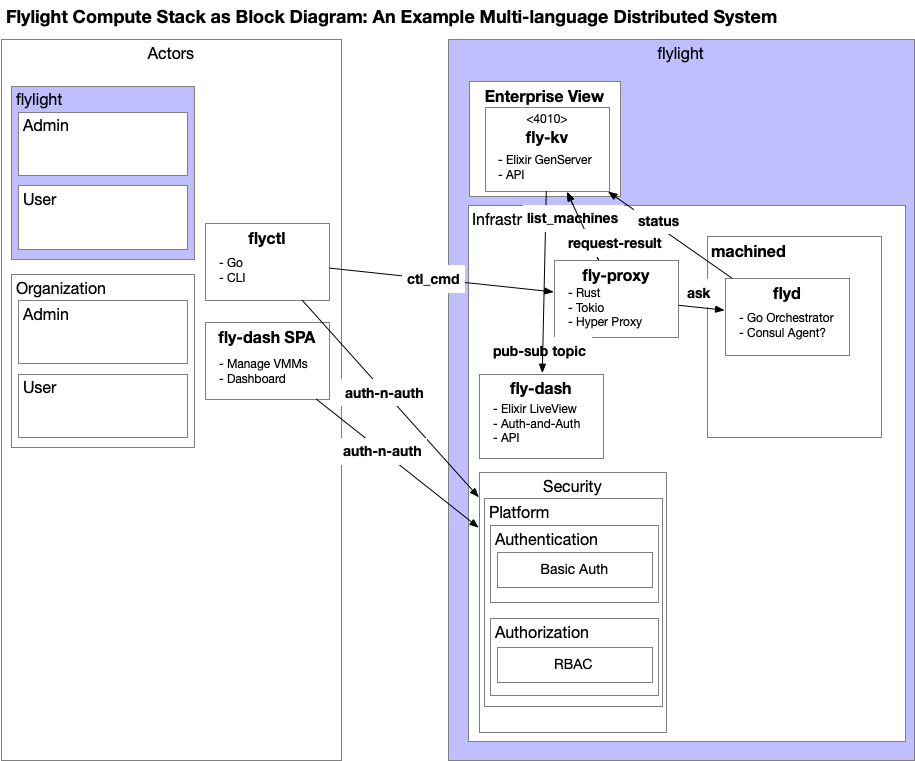
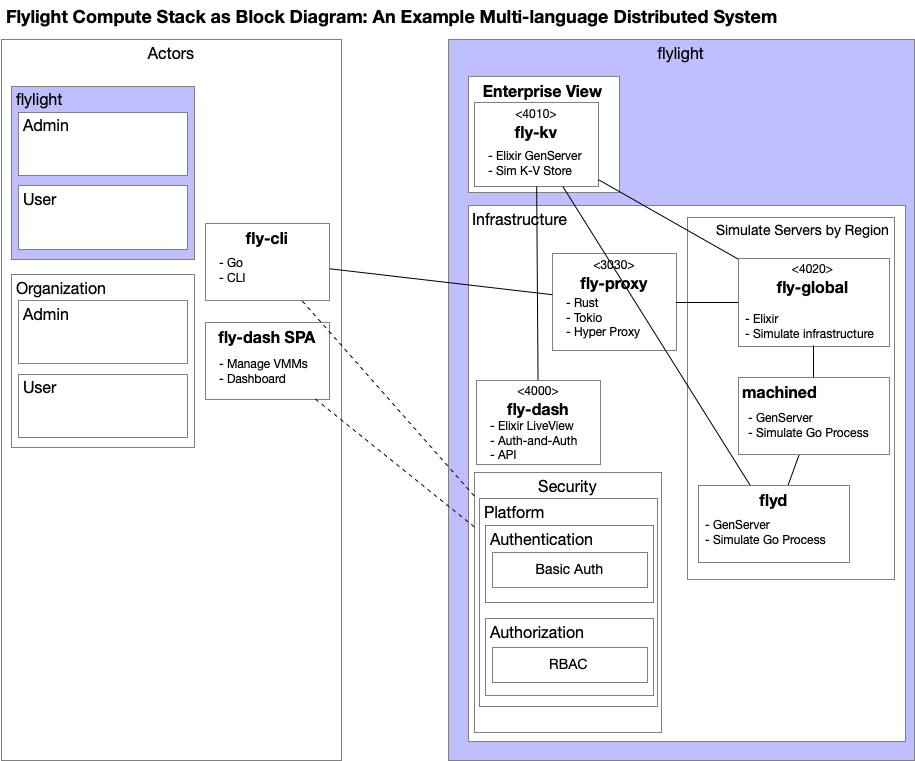
Describe Flylight in README.md

diff --git a/README.md b/README.md
@@ -1,1 +1,104 @@
-# fly-light
+# Flylight
+## Learning Modern Distributed System Skills by Emulating fly.io
+
+In this era of AI-generated code, including fly.io's `Phoenix.new`, it is a relevant question to ask: as a fullstack engineer, what should I know?  
+
+Flylight asserts that distributed web architecture by way of key web languages Go, Rust, and Elixir are a good place to begin--these languages are key to the success of fly.io, an important player in the Cloud for quickly and easily enabling global services.
+
+Initially, this effort will focus on getting acquainted with Go and Rust and growing my understanding of Elixir, especially as it relates to OTP and LiveView.
+
+# fly.io as Reference (Distributed) Architecture
+
+**An elided sketch of the fly.io ecosystem.**
+
+![fly.io ecosystem](./images/flylight.png)
+
+Flylight creates a single thread through this larger ecosystem, conveniently bending its shape to suit my desires and avoiding the hard stuff for now while getting acquainted with Go and Rust.
+
+## Flylight Exercise
+fly.io leverages **Go**, and **Rust**, and **Elixir** programming languages extensively.  For purposes of this exercise, applications built with these languages are depicted in the following diagram.
+
+![flylight-project](./images/flylight_project.png)
+
+This simplified topology is my mental model for the operational services that enable fly.io.  While it may be incorrect, it serves my purposes to learn something useful about a modern distributed architecture.  
+
+The lines represent communication between applications.  
+- Solid lines represent application communication that is implemented initially: as an architectural thread.
+- Broken lines are in the backlog.
+
+## Flylight Applications
+
+### fly-cli
+**fly-cli** is an initial `Go` implementation of a CLI.  This is the primary application that lives in the client or subscriber's world and its' name had to changed so that it would not conflict with the fly.io `flyctl` application installed locally.  **This implementation is a first cut at using Go and does not represent the fly.io implementation**.  
+
+Currently there are two commands that can be issued from `fly-cli`, 
+- `./fly-cli regions` 
+  - Returns all of the regions managed by fly.io.
+- `./fly-cli --vm-region SIN --vm-memory 6 --vm-cores 4` 
+  - This command asks for a `machine` or `VM` to be allocated in the Singapore region that has 6GB of memory and four cores.
+  - As I understand it, the fly.io allocation process will find and start the machine in the time that the request-response takes to run, which is the same latency as a normal request-response.
+
+### fly-proxy
+**fly-proxy** is a `Rust` application that provides access to internal processes and resources.  This simple implementation knows where to delegate processing to internally while providing a first line of defense against malicious or non-sensical requests.  
+
+The current example **validates the region** passed in as an option on the request.  
+
+In the **backlog**, for learning sake, the proxy is candidate to provide the following services: 
+- **Gatekeeping** by way of token validation, authentication and authorization, 
+- **SSL and TLS termination**, traffic decryption, centralization of cryptographic complexity,
+- **Load balancing**, health checks, removing failing nodes,
+- **Request/Response Transformation**, header manipulation, and protocol translation.
+- **Caching** and other techniques to reduce backend load.
+- **Basic Observability**, gather metics and emit structured logs.
+- **Failover and Circuit Breaking**, help to prevent cascading failures.
+
+`Rust` is a good choice for to handle these wide ranging proxy features.
+
+### fly-global
+**fly-global** is an Elixir application that simulates global infrastructure represented by three OTP GenServers: `Infrastructure`, `MachineD`, and `FlyD`.  `Infrastructure`'s job is to obtain region and machine data from the `fly-kv` key-value store and instantiate a `MachineD` and `FlyD` process for each region-machine pair, registering each process for lookup by way of via-tuple and Registry.  `MachineD` represents a physical machine, tracking resources and taking requests for `VM allocation`, notifying `FlyD` asynchronously when a VM is allocated.  `FlyD` has the job of waking up on a configurable basis, conflating notifications into a single request and updating `fly-kv` with the allocation information.  
+
+`fly-global` is effectively an orchestration service of collaborating processes, made resilient in a dynamic supervisor tree, allocating resources from infrastructure on a region-machine basis based on requests from `fly-cli`.
+
+### fly-kv
+**fly-kv** is the placeholder for the Hashicorp Consul key-value store that is specially designed to track device status.  In this case it is an OTP GenServer called `Store` that bootstraps a data-structure of regions and their machines from a CSV file.  `fly-kv` serves as the heart of the architecture, providing data services that include finding machines for a region that likely have availability based on allocation request, shuffling the result so that machines are allocated as randomly as possible.  These candidates are asked for from the `fly-global` orchestration service, who then asks each identified `MachineD` whether it can host the requested VM until one agrees.  The resulting allocation is asynchronously fed back to the `fly-kv` application by way of `FlyD`.  
+
+### fly-dash
+**fly-dash** is a LiveView SPA that lists all of the regions and displays machines in the region when the region is selected.  The machines that are allocated indicate this by changing the status of the machine and showing machine resources in a different color, providing touch-less visual indicators of machine allocation. The synchronization between `fly-kv` and `fly-dash` is performed over distributed PubSub enabled by Phoenix's default `Phoenix.PubSub.PG2` process group clustering enabled by Erlang.
+
+**FlyDash Dashboard**
+![dashboard](./images/flylight_fly-dash.png)
+
+
+## Interaction Diagrams
+For purposes of understanding how these Flylight applications interact, these interaction diagrams are intended to be more precise than a UML Communication Diagram, but less precise than a UML Sequence Diagram--they represent a high-level sketch to help navigate this repository.
+
+**GET `regions`**
+![get regions](./images/flylight_regions_interaction_w_store.png)
+
+This first interaction diagram depicts a simple traversal of distributed applications in order to get a current list of regions.  This information can help compose more complex CLI invocations, such as `launch and allocate`.
+
+**POST `launch and allocate`**
+![post launch](./images/flylight_launch_interaction_with_note.png)
+
+Key points to make about `launch and allocate` include:
+- Domain or business logic is performed behind the expected protection of a proxy service.
+- `fly-kv` is used to provide the asked for number of candidate machines that might be able to allocate the request.
+- When a machine is able to allocate adequate resources and launch the VM it asynchronously notifies `FlyD`.
+- The returned `allocated machine` is launched and ready for use (a fly.io distinguishing feature).
+- `FlyD` asynchronously processes all of the allocations for the machine by conflating them into a single request that is used to update `fly-kv`.
+- The `kv-store`, called `Store` in the code, asynchrously publishes the change to a PubSub topic.
+- The PubSub topic is updated to the LiveView SPA for dashboard display.
+
+### fly-light as Monorepo
+
+`fly-light` is a monorepo hosting multiple collaborating projects.
+- `ex_scratch`, a mix project to work out Elixir related questions.
+- `go-scratch`, a Go project to work out Go related questions.
+- `rust-scratch`, a Rust proejct to work out Rust related questions.
+- `fly-cli`, a Go CLI project.
+- `fly-proxy`, a Rust project providing proxy services.
+- `fly_global`, an mix project providing business orchestration services to simulate server resources.
+- `fly_kv`, a mix project providing an ephemeral key-value store in the spirit of Hashicorp's Consul key-value store.
+- `fly_dash`, a mix project providing Phoenix LiveView dashboard view of regions and machines.
+
+
